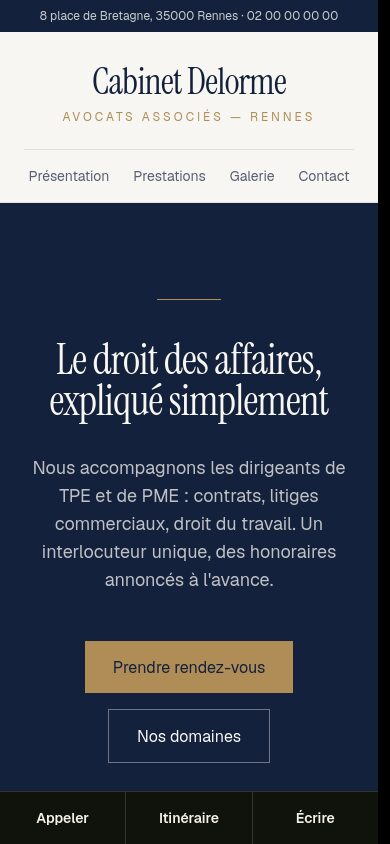
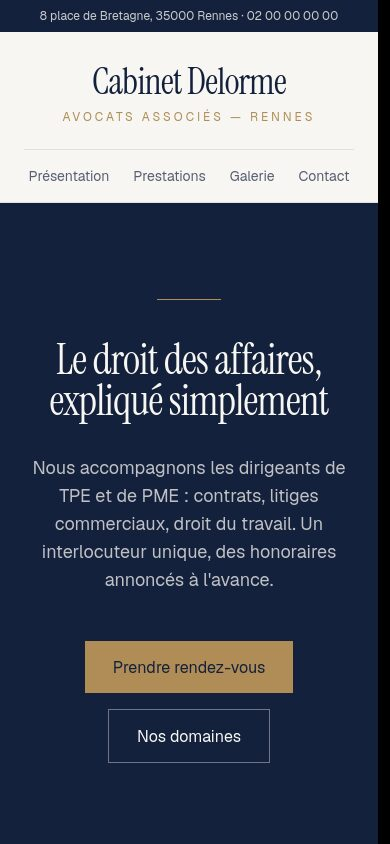
Barre mobile des sites : panneau flottant avec icônes, collé en bas sur iPhone (zone de sécurité), barre de démo intégrée

Changed region(s): [[0.0, 0.9242, 0.9846, 1.0]]

diff --git a/src/components/templates/TemplateSite.tsx b/src/components/templates/TemplateSite.tsx
@@ -23,33 +23,63 @@ export default function TemplateSite({ template, content, bare = false, demo = f
       <div className={demo ? "demo-visuals" : undefined} data-demo={demo ? template.id : undefined}>
         <Layout template={template} content={content} bare={bare} />
       </div>
-      <MobileActions c={content} />
+      <MobileActions c={content} demo={demo} />
     </>
   );
 }
 
-/** Sur téléphone : appeler, venir ou écrire en un geste, toujours sous le pouce. */
-function MobileActions({ c }: { c: SiteContent }) {
+const icons = {
+  Appeler: "M6.6 10.8a15.2 15.2 0 0 0 6.6 6.6l2.2-2.2a1 1 0 0 1 1-.25 11.4 11.4 0 0 0 3.6.57 1 1 0 0 1 1 1V20a1 1 0 0 1-1 1A17 17 0 0 1 3 4a1 1 0 0 1 1-1h3.5a1 1 0 0 1 1 1c0 1.25.2 2.45.57 3.57a1 1 0 0 1-.25 1z",
+  Itinéraire: "M12 2a7 7 0 0 0-7 7c0 5.25 7 13 7 13s7-7.75 7-13a7 7 0 0 0-7-7zm0 9.5A2.5 2.5 0 1 1 12 6.5a2.5 2.5 0 0 1 0 5z",
+  Écrire: "M20 4H4a2 2 0 0 0-2 2v12a2 2 0 0 0 2 2h16a2 2 0 0 0 2-2V6a2 2 0 0 0-2-2zm0 4-8 5-8-5V6l8 5 8-5z",
+} as const;
+
+/**
+ * Sur téléphone : appeler, venir ou écrire en un geste, dans un panneau flottant sous le pouce. Il tient
+ * compte de la zone de sécurité de l'iPhone (barre d'accueil). Sur une page d'exemple, il porte aussi
+ * le retour aux exemples et la demande de devis, pour n'avoir qu'une seule barre.
+ */
+function MobileActions({ c, demo }: { c: SiteContent; demo: boolean }) {
   const actions = [
-    c.phone && { href: tel(c.phone), label: "Appeler" },
-    c.address && { href: mapUrl(c.address), label: "Itinéraire", external: true },
-    c.email && { href: `mailto:${c.email}`, label: "Écrire" },
-  ].filter(Boolean) as { href: string; label: string; external?: boolean }[];
-  if (actions.length === 0) return null;
+    c.phone && { href: tel(c.phone), label: "Appeler" as const },
+    c.address && { href: mapUrl(c.address), label: "Itinéraire" as const, external: true },
+    c.email && { href: `mailto:${c.email}`, label: "Écrire" as const },
+  ].filter(Boolean) as { href: string; label: keyof typeof icons; external?: boolean }[];
+  if (actions.length === 0 && !demo) return null;
   return (
     <>
-      <div className="h-16 md:hidden" aria-hidden="true" />
-      <nav aria-label="Contact rapide" className="fixed inset-x-0 bottom-0 z-40 flex border-t border-white/15 bg-[#10130b] text-[#f3f0e6] md:hidden">
-        {actions.map((a) => (
-          <a
-            key={a.label}
-            href={a.href}
-            {...(a.external ? { target: "_blank", rel: "noopener noreferrer" } : {})}
-            className="flex-1 border-r border-white/15 py-4 text-center text-sm font-semibold last:border-r-0 active:bg-white/10"
-          >
-            {a.label}
-          </a>
-        ))}
+      <div className={`md:hidden ${demo ? "h-36" : "h-24"}`} aria-hidden="true" />
+      <nav
+        aria-label="Contact rapide"
+        className="fixed inset-x-3 bottom-[calc(0.75rem+env(safe-area-inset-bottom))] z-40 overflow-hidden rounded-2xl border border-white/10 bg-[#111214]/90 text-[#f3f0e6] shadow-2xl shadow-black/30 backdrop-blur-xl md:hidden"
+      >
+        {demo && (
+          <div className="flex items-center gap-2 border-b border-white/10 p-2 text-sm">
+            <Link href="/exemples" className="rounded-xl px-3 py-2 text-white/70">
+              ← Exemples
+            </Link>
+            <Link href="/#contact" className="ml-auto rounded-xl bg-[#d3e5c9] px-4 py-2 font-semibold text-[#164a36]">
+              Un site comme ça
+            </Link>
+          </div>
+        )}
+        {actions.length > 0 && (
+          <div className="flex">
+            {actions.map((a) => (
+              <a
+                key={a.label}
+                href={a.href}
+                {...(a.external ? { target: "_blank", rel: "noopener noreferrer" } : {})}
+                className="flex flex-1 flex-col items-center gap-1 py-2.5 text-xs font-medium active:bg-white/10"
+              >
+                <svg viewBox="0 0 24 24" className="size-5 fill-current" aria-hidden="true">
+                  <path d={icons[a.label]} />
+                </svg>
+                {a.label}
+              </a>
+            ))}
+          </div>
+        )}
       </nav>
     </>
   );

diff --git a/src/app/exemples/[id]/page.tsx b/src/app/exemples/[id]/page.tsx
@@ -23,7 +23,7 @@ export default async function TemplateDemo({ params }: Props) {
       <TemplateSite template={template} content={template.content} demo />
       <aside
         aria-label="Démonstration"
-        className="zone-dark fixed bottom-20 left-1/2 md:bottom-4 z-50 flex -translate-x-1/2 items-center gap-2 rounded-full border border-line p-1.5 pl-5 text-sm shadow-2xl"
+        className="zone-dark fixed bottom-4 left-1/2 z-50 hidden md:flex -translate-x-1/2 items-center gap-2 rounded-full border border-line p-1.5 pl-5 text-sm shadow-2xl"
       >
         <span className="hidden whitespace-nowrap sm:inline">
           Exemple <strong>{template.name}</strong>

diff --git a/src/app/layout.tsx b/src/app/layout.tsx
@@ -39,7 +39,7 @@ export const metadata: Metadata = {
   description: seoDescription,
 };
 
-export const viewport: Viewport = { themeColor: "#0c0d0a" };
+export const viewport: Viewport = { themeColor: "#0c0d0a", viewportFit: "cover" };
 
 export default async function RootLayout({ children }: { children: React.ReactNode }) {
   // Lecture des en-têtes : force un rendu par requête, indispensable pour que
